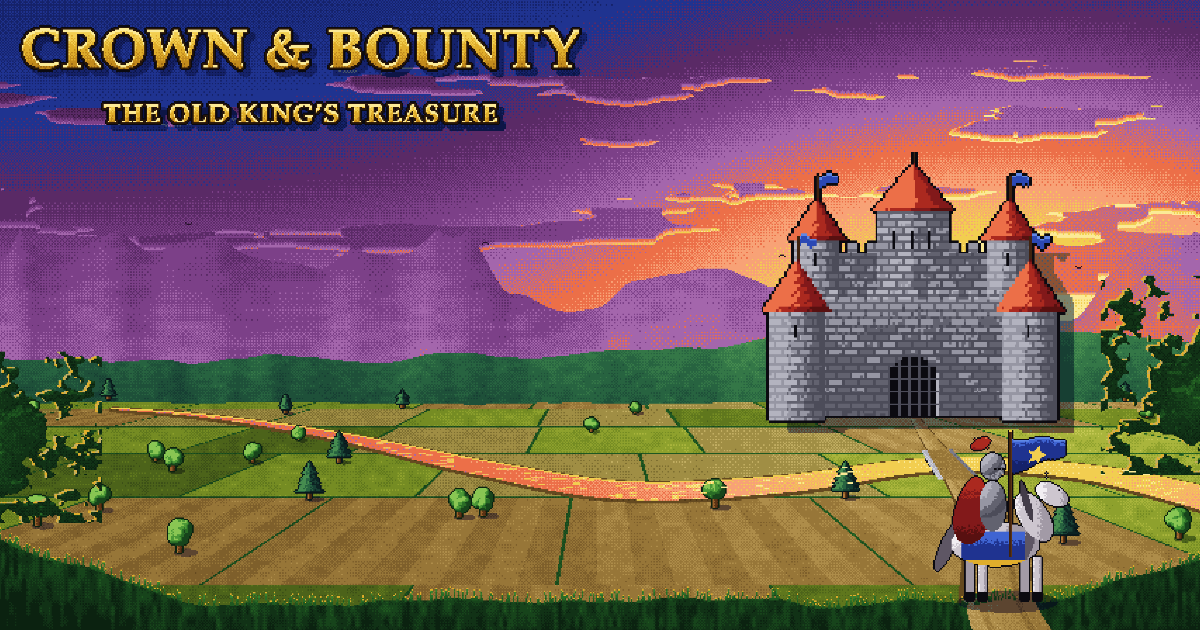
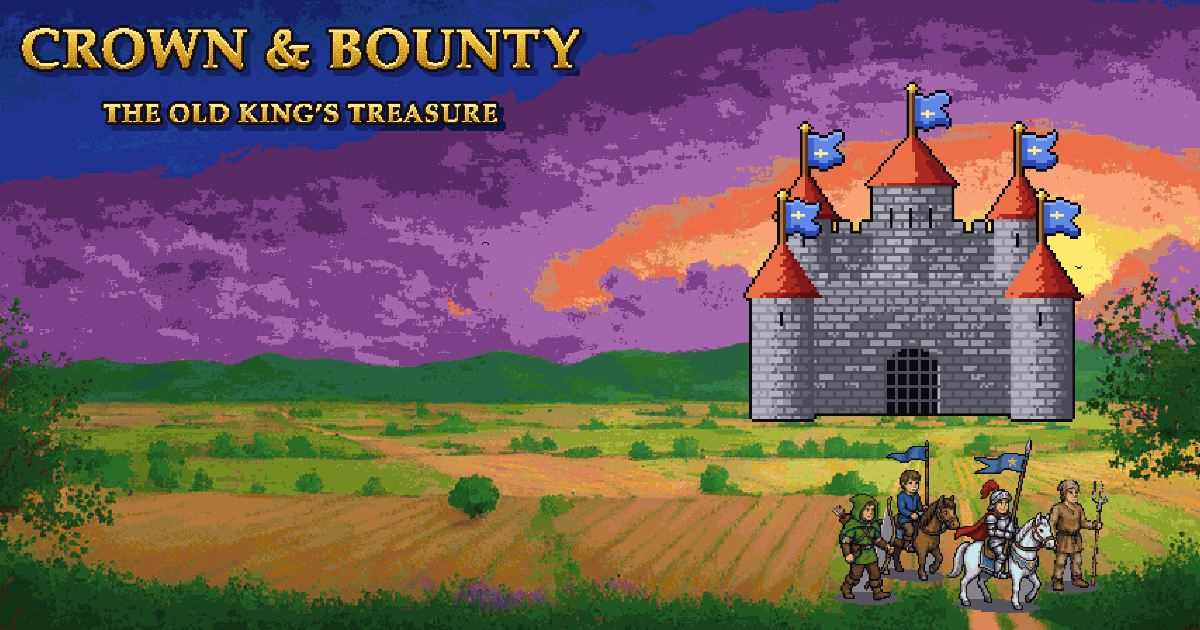
Paint the title's land and the court's hall with a local style model
The title's sky and fields and the court's hall are repainted with kcpix, an SDXL style model
trained on Artur's Mac on our sheets and on HoMM1 and HoMM2 screens, from the scenes as the
code draws them, so nothing moves. The game draws its castle, riders, name, King, guards, goose
and Aldric over them, and falls back to the code's scenes until they load.

Copilot-Session: bbcc130b-f10b-4ee6-84a0-06f99fbd6669

diff --git a/test/courtScreen.test.ts b/test/courtScreen.test.ts
@@ -2,7 +2,8 @@ import { readFileSync } from 'node:fs';
 import { beforeAll, describe, expect, it, vi } from 'vitest';
 import { CourtScreen } from '../src/render/courtScreen';
 import { MAP_VIEW, SCREEN } from '../src/render/frame';
-import { courtPiece, loadSceneArt } from '../src/render/mapArt';
+import { backdrop, courtPiece, loadSceneArt } from '../src/render/mapArt';
+import { SHADOW } from '../src/render/bitmap';
 import { COURT_PIECES } from '../src/render/mapPieces';
 
 // Lettering is checked in the browser; these frames have no caption.
@@ -21,6 +22,18 @@ describe('the people at court', () => {
 
   it('paints everyone at court from the court sheet, none of them in code (#311)', () => {
     for (const name of COURT_PIECES) expect(courtPiece(name), name).not.toBeNull();
+  });
+
+  it('lays the painted hall and the title land at the view size, in the palette alone', () => {
+    for (const name of ['court', 'title'] as const) {
+      const picture = backdrop(name);
+      expect(picture, name).not.toBeNull();
+      expect([picture!.width, picture!.height], name).toEqual([MAP_VIEW.width, MAP_VIEW.height]);
+      // Opaque all over: nothing in it is clear or shadow.
+      expect(picture!.data.every((c) => c > 0 && c !== SHADOW), name).toBe(true);
+    }
+    const hall = new CourtScreen().draw(0).data;
+    expect(hall[(MAP_VIEW.y + 40) * SCREEN.width + MAP_VIEW.x + 600]).toBe(backdrop('court')!.data[40 * MAP_VIEW.width + 600]);
   });
 
   it('keeps all four backgrounds distinct when Aldric changes who he was', () => {

diff --git a/src/render/mapArt.ts b/src/render/mapArt.ts
@@ -193,7 +193,7 @@ let scenesLoading: Promise<void> | null = null;
  */
 export function loadSceneArt(read: (file: string) => Promise<Uint8Array> = fetchPiece): Promise<void> {
   scenesLoading ??= Promise.all(
-    [...TITLE_PIECES.map((name) => `title/${name}`), ...COURT_PIECES.map((name) => `court/${name}`)].map(async (name) => {
+    [...TITLE_PIECES.map((name) => `title/${name}`), ...COURT_PIECES.map((name) => `court/${name}`), ...BACKDROPS.map((name) => `backdrops/${name}`)].map(async (name) => {
       try {
         scenes.set(name, toBitmap(await decodePng(await read(`${name}.png`))));
       } catch (error) {
@@ -208,3 +208,11 @@ export function loadSceneArt(read: (file: string) => Promise<Uint8Array> = fetch
 export const titlePiece = (name: TitlePieceName): Bitmap | null => scenes.get(`title/${name}`) ?? null;
 /** One of the court's painted people, if it's loaded. */
 export const courtPiece = (name: CourtPieceName): Bitmap | null => scenes.get(`court/${name}`) ?? null;
+
+/**
+ * The title's land and sky, and the court's hall, painted whole at the view's size: the code's own scenes repainted
+ * with a style model trained on our sheets (`scripts/backdrop.py`). The figures, the castle and the name are
+ * drawn over them; until they load, or if one never comes, the scene is drawn in code as before.
+ */
+const BACKDROPS = ['title', 'court'] as const;
+export const backdrop = (name: (typeof BACKDROPS)[number]): Bitmap | null => scenes.get(`backdrops/${name}`) ?? null;

diff --git a/src/render/titleScreen.ts b/src/render/titleScreen.ts
@@ -2,7 +2,7 @@ import { Bitmap, blit, scaleBitmap, SHADOW } from './bitmap';
 import { BAR, MAP_VIEW, paintFrame, SCREEN, type Rect } from './frame';
 import { fbm, hash, noise, shade } from './noise';
 import { BLUE, DIRT, GOLD, GRASS, INK, LEAF, PARCHMENT, PINE, PLUM, RED, REED, STONE, WOOD } from './palette';
-import { titlePiece } from './mapArt';
+import { backdrop, titlePiece } from './mapArt';
 import type { TitlePieceName } from './mapPieces';
 import { castle, CASTLE_TIPS, kingsPennant, mirror, oak, pine, PENNANT_FOOT } from './sprites';
 
@@ -404,6 +404,14 @@ export class TitleScreen {
       this.paintLogo(textMask('THE OLD KING\u2019S TREASURE', 18, 1)),
     ], 1);
     drawText(b, 'This game is a tribute to King\u2019s Bounty (1990) and Heroes of Might and Magic II, and its figures are painted over Wesnoth\u2019s units (GPL, CC BY-SA).', BAR.x + 12, BAR.y + 5, PARCHMENT[6], INK);
+    // The land and sky painted whole, over the code's own, once they have loaded: their clouds and river are in the
+    // painting, so the code's stop drifting and shimmering over it.
+    const painted = backdrop('title');
+    if (painted) {
+      blit(b, painted, MAP_VIEW.x, MAP_VIEW.y);
+      this.sky.fill(0);
+      this.water = [];
+    }
     this.base = b;
   }
 

diff --git a/src/render/courtScreen.ts b/src/render/courtScreen.ts
@@ -1,7 +1,7 @@
 import type { BackgroundId } from '../content/backgrounds';
 import { FRIENDS, type FriendId } from '../content/friends';
 import { Bitmap, blit, outline, scaleBitmap, SHADOW } from './bitmap';
-import { courtPiece } from './mapArt';
+import { backdrop, courtPiece } from './mapArt';
 import type { CourtPieceName } from './mapPieces';
 import { mirror } from './sprites';
 import { BAR, MAP_VIEW, paintFrame, SCREEN } from './frame';
@@ -319,6 +319,9 @@ export class CourtScreen {
       }
     }
     const b = room.bitmap;
+    // The hall painted whole, over the code's own, once it has loaded.
+    const hall = backdrop('court');
+    if (hall) blit(b, hall, MAP_VIEW.x, MAP_VIEW.y);
     // The royal guard stands either side of the dais, facing the carpet.
     stand(b, courtPiece('guard'), 92, 312);
     stand(b, courtPiece('guard'), 334, 312, true);

diff --git a/scripts/backdrop.py b/scripts/backdrop.py
@@ -1,0 +1,69 @@
+"""Repaints one of the game's own scenes with the kcpix style model, locally:  python backdrop.py court --strength 0.5 --seeds 1,2,3
+
+The style model (an SDXL LoRA trained on our sheets and on screens from HoMM I and II) and its Python setup stay on
+Artur's Mac in ~/.local/share/kc-imagegen and never go in the repo; run this with that setup's Python
+(~/.local/share/kc-imagegen/.venv/bin/python). The source is the scene as the code draws it with nobody in it,
+`<name>-src.png` there (the court's room before its people, the title's base before the castle, riders and name), so the
+painting keeps everything where it stood. Each take is snapped to the game's palette at the view's size (928x464); the
+chosen one goes in public/assets/backdrops/<name>.png as an indexed PNG. See public/assets/CREDITS.md.
+"""
+import json, os, subprocess, sys
+import numpy as np, torch
+from PIL import Image
+from diffusers import AutoencoderKL, StableDiffusionXLImg2ImgPipeline
+
+ROOT = os.path.dirname(os.path.dirname(os.path.abspath(__file__)))
+HOME = os.path.expanduser('~/.local/share/kc-imagegen')
+STEP = '3200'
+arg = lambda k, d: type(d)(sys.argv[sys.argv.index(k) + 1]) if k in sys.argv else d
+W, H = 928, 464
+PROMPTS = {
+    'court': 'kcpix, a royal throne hall inside a castle, warm sandstone walls and pillars, two red banners with gold crowns, '
+             'a blue cloth of estate in an arch, a red carpet up stone steps, a tall arched window, torches, two guards, flagstone floor',
+    'title': 'kcpix, a wide landscape at sunset, a road winding through green fields and hedges, a river, lilac mountains, '
+             'a golden and purple sky with clouds, big trees at both edges, open sky across the top',
+}
+# What the game draws over each, so the painting mustn't have its own.
+NEGS = {'court': 'king, throne, goose, bird', 'title': 'castle, tower, building, house, people, rider, horse'}
+NEG = 'photo, realistic, 3d render, blurry, text, letters, watermark, frame, border, modern, car'
+
+
+def oklab(rgb):
+    c = rgb / 255.0
+    c = np.where(c <= 0.04045, c / 12.92, ((c + 0.055) / 1.055) ** 2.4)
+    m1 = np.array([[0.4122214708, 0.5363325363, 0.0514459929], [0.2119034982, 0.6806995451, 0.1073969566], [0.0883024619, 0.2817188376, 0.6299787005]])
+    lms = np.cbrt(np.maximum(c @ m1.T, 0))
+    m2 = np.array([[0.2104542553, 0.7936177850, -0.0040720468], [1.9779984951, -2.4285922050, 0.4505937099], [0.0259040371, 0.7827717662, -0.8086757660]])
+    return lms @ m2.T
+
+
+def palette():
+    js = "import('./src/render/palette.ts').then(m=>{const c=new Set([...m.CYCLING]);console.log(JSON.stringify(m.COLORS.filter((_,i)=>i>0&&!c.has(i)&&i!==m.SILHOUETTE)))})"
+    out = subprocess.run(['npx', 'tsx', '-e', js], cwd=ROOT, capture_output=True, text=True, check=True).stdout
+    return np.array(json.loads(out.strip().splitlines()[-1]), float)
+
+
+def snap(img, pal):
+    lab, flat = oklab(pal), oklab(np.asarray(img.convert('RGB')).reshape(-1, 3).astype(float))
+    out = np.empty(len(flat), int)
+    for s in range(0, len(flat), 16384):
+        out[s:s + 16384] = ((flat[s:s + 16384, None] - lab[None]) ** 2).sum(2).argmin(1)
+    return Image.fromarray(pal[out].reshape(H, W, 3).astype('uint8'))
+
+
+if __name__ == '__main__':
+    name = sys.argv[1]
+    strength, seeds = arg('--strength', 0.5), [int(s) for s in arg('--seeds', '1,2,3').split(',')]
+    pal = palette()
+    vae = AutoencoderKL.from_pretrained('madebyollin/sdxl-vae-fp16-fix', torch_dtype=torch.float16)
+    p = StableDiffusionXLImg2ImgPipeline.from_pretrained('stabilityai/stable-diffusion-xl-base-1.0', vae=vae, torch_dtype=torch.float16,
+                                                         variant='fp16', use_safetensors=True).to('mps')
+    p.load_lora_weights(f'{HOME}/lora', weight_name=f'kcpix-{STEP}.safetensors', adapter_name='kc')
+    src = Image.open(f'{HOME}/out/{name}-src.png').convert('RGB').crop((16, 16, 16 + W, 16 + H)).resize((1280, 640), Image.LANCZOS)
+    os.makedirs(f'{HOME}/out/backdrops', exist_ok=True)
+    for seed in seeds:
+        img = p(PROMPTS[name], image=src, strength=strength, negative_prompt=f'{NEG}, {NEGS[name]}', num_inference_steps=40,
+                guidance_scale=6.5, generator=torch.Generator('cpu').manual_seed(seed)).images[0]
+        out = f'{HOME}/out/backdrops/{name}-{STEP}-st{strength}-s{seed}.png'
+        snap(img.resize((W, H), Image.LANCZOS), pal).save(out)
+        print(out, flush=True)

diff --git a/AGENTS.md b/AGENTS.md
@@ -8,7 +8,7 @@ Crown & Bounty is a browser game: King's Bounty (1990) rebuilt with modern tech 
 - Show, don't tell. Open the game in the browser side panel and screenshot it. Use a mermaid diagram for flows.
 - **The voice** (Artur, 30 Sep, #149). The game's words are plain, full sentences that speak to the player, the way HoMM2's own messages read. The narration has no colons, dashes or clipped phrases, and no put-on old-fashioned wording. Write every card to `docs/VOICE.md`, which has the rules and ten examples. Issues, PRs and messages to Artur are written the same plain way.
 - Build in small, visible steps. Check in before any big build or long design deep-dive.
-- **Art** (Artur, #178 and again 2 Oct, #255: "match the style of the previous ones"). The map, the battlefield, every troop and captain, and Aldric are painted from Retro Diffusion sheets and cut by `npm run mapart`: follow `.github/skills/kings-commission-mapart/SKILL.md`. A new troop gets its painted figure from a sheet, never Wesnoth's art as it comes, and a test fails without one. Use no other image models, and draw everything else in code. Battle for Wesnoth's units (GPL-2.0-or-later and CC BY-SA 4.0, credited file by file in `public/assets/CREDITS.md`) stay under the paintings: they time the troops' blows and stand in until the paintings load. The game is GPL-2.0-or-later (`LICENSE`).
+- **Art** (Artur, #178 and again 2 Oct, #255: "match the style of the previous ones"). The map, the battlefield, every troop and captain, and Aldric are painted from Retro Diffusion sheets and cut by `npm run mapart`: follow `.github/skills/kings-commission-mapart/SKILL.md`. A new troop gets its painted figure from a sheet, never Wesnoth's art as it comes, and a test fails without one. Use no other image models, except the local `kcpix` style model that repaints whole scenes (the title's land and sky, the court's hall: `scripts/backdrop.py`, Artur, 15 Oct), and draw everything else in code. Battle for Wesnoth's units (GPL-2.0-or-later and CC BY-SA 4.0, credited file by file in `public/assets/CREDITS.md`) stay under the paintings: they time the troops' blows and stand in until the paintings load. The game is GPL-2.0-or-later (`LICENSE`).
 - **Interface craft.** Use `kings-commission-craft` and `impeccable` when reviewing interface aesthetics, changing screen composition or layout, adapting a screen for phone or touch use, or claiming the interface looks finished. Present evidence, priority failures and a direction before implementing an aesthetic change. Artur chooses unless he explicitly delegates design decisions; then choose within his constraints, record why and proceed without another approval round. Keep mapart's art policy and ship's technical checks. Rules-only changes need no aesthetic review.
 - **Build locally, from issues** (Artur, 29 Sep). An issue says what and why. A session on this Mac builds it on a branch in its own worktree and runs only the cheap checks here: `npm run typecheck`, `npm run test:fast` and the tests it touched. It looks at a few screenshots of what it changed, and runs `npm run visual -- --approve` only when it changed a frozen scene on purpose (baselines are approved here, as this is a Mac). It doesn't run `npm run e2e`, `npm run phone` or the playtest locally, because CI runs them on every PR (Artur, 30 Sep: they doubled the time of every change). Then it opens a PR that says `Fixes #N` (or `Part of #N`), and squash-merges it itself once CI's three PR jobs are green. Never push to main. The issue and its PR are the record of what was done and how.
 - **Ship fast** (Artur, 28 Sep: "I want to just play this, and I'll tell you if something is not working"). Ship small slices through pull requests; the session merges its own PR once CI is green, and never pushes to main. Don't hold work back for long docs. Follow `.github/skills/kings-commission-ship/SKILL.md`.

diff --git a/.github/skills/kings-commission-mapart/SKILL.md b/.github/skills/kings-commission-mapart/SKILL.md
@@ -70,6 +70,12 @@ trees along the top cut by the frame, clumps in the corners, and obstacles at ba
   into the 64 px square (`portraits-a`, `portraits-b`), cute and chunky like the figures, never realistic.
 - **It writes** `public/assets/map/*.png`, `public/assets/troops/*-{battle,map}.png` and
   `src/render/mapPieces.ts` (`PIECE_FEET`, `GROVE_TREES`). `src/render/mapArt.ts` loads them.
+- **Whole scenes** (the title's land and sky, the court's hall) are repainted locally with `kcpix`, an SDXL style
+  model trained on our sheets and HoMM1 and HoMM2 screens, which lives on Artur's Mac in `~/.local/share/kc-imagegen`
+  (never the repo). `scripts/backdrop.py <name>` repaints the scene as the code draws it with nobody in it, so
+  nothing moves; pick a take, save it indexed in `public/assets/backdrops/`, and the game draws its figures over it
+  (`backdrop` in `mapArt.ts`). It costs nothing, but its troop sheets aren't as crisp as Retro Diffusion's, so
+  figures still come from sheets.
 - **Optional painted poses** (#278) are `FIGURE_ANIMATIONS` in `scripts/mapart.py`. Each animation names its
   `sheet`, one fixed source-to-battle `scale`, its `sizes`, and `frames` of `(box, foot, ms)`. The box and foot
   are absolute sheet pixels. Calibrate the body against the standing figure once, never fit each frame to its

diff --git a/public/assets/CREDITS.md b/public/assets/CREDITS.md
@@ -40,6 +40,13 @@ screens, with HoMM2's screens, our feast and unit sheets and our own title and c
 with his squire, an archer and a peasant (`title-rider.png`), and King Osric on his throne, Aldric kneeling as each
 background and the royal guard (`court-cute.png`).
 
+The title's land and sky and the court's hall (`public/assets/backdrops/`) were painted on 15 October 2026 on Artur's
+Mac, with no image service: Stable Diffusion XL (stabilityai/stable-diffusion-xl-base-1.0, CreativeML Open RAIL++-M)
+with `kcpix`, a style model trained there on our own sheets and on screens from Heroes of Might and Magic I and II.
+Each repaints the game's own scene as the code drew it (`scripts/backdrop.py`), so everything stays where it stood, and
+the game's figures, castle and name are drawn over it. The style model and its training pictures stay on that Mac and
+never go in the repo.
+
 The Hedge Wizard's six walking poses (#278) were made with Retro Diffusion on 12 October 2026, with his
 original figure from `units-d.png` and the same HoMM2 screens as references. `wizard-walk-2.png` supplies the
 poses in `public/assets/troops/heroWizard-move-*-map.png`. The first attempt, `wizard-walk.png`, was inspected
